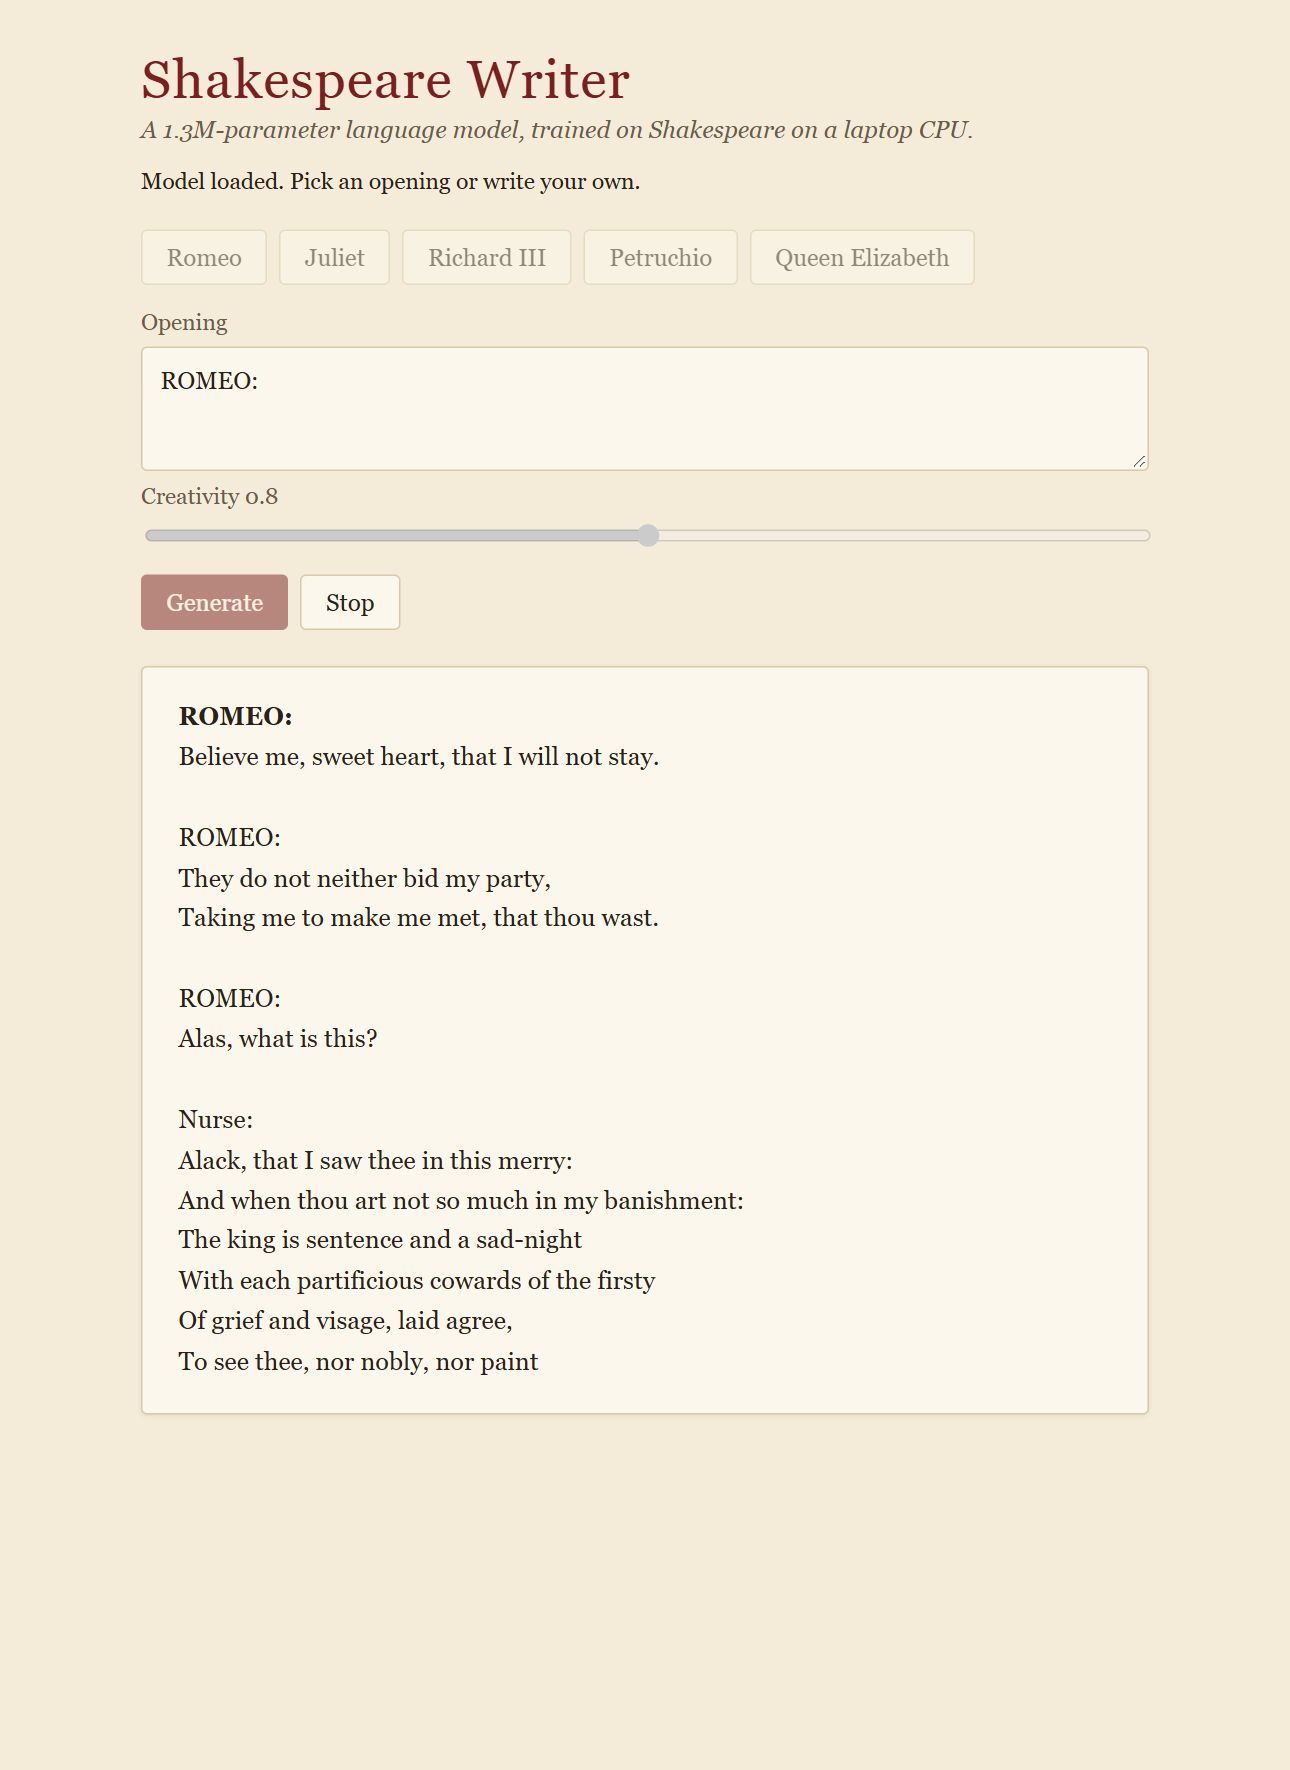
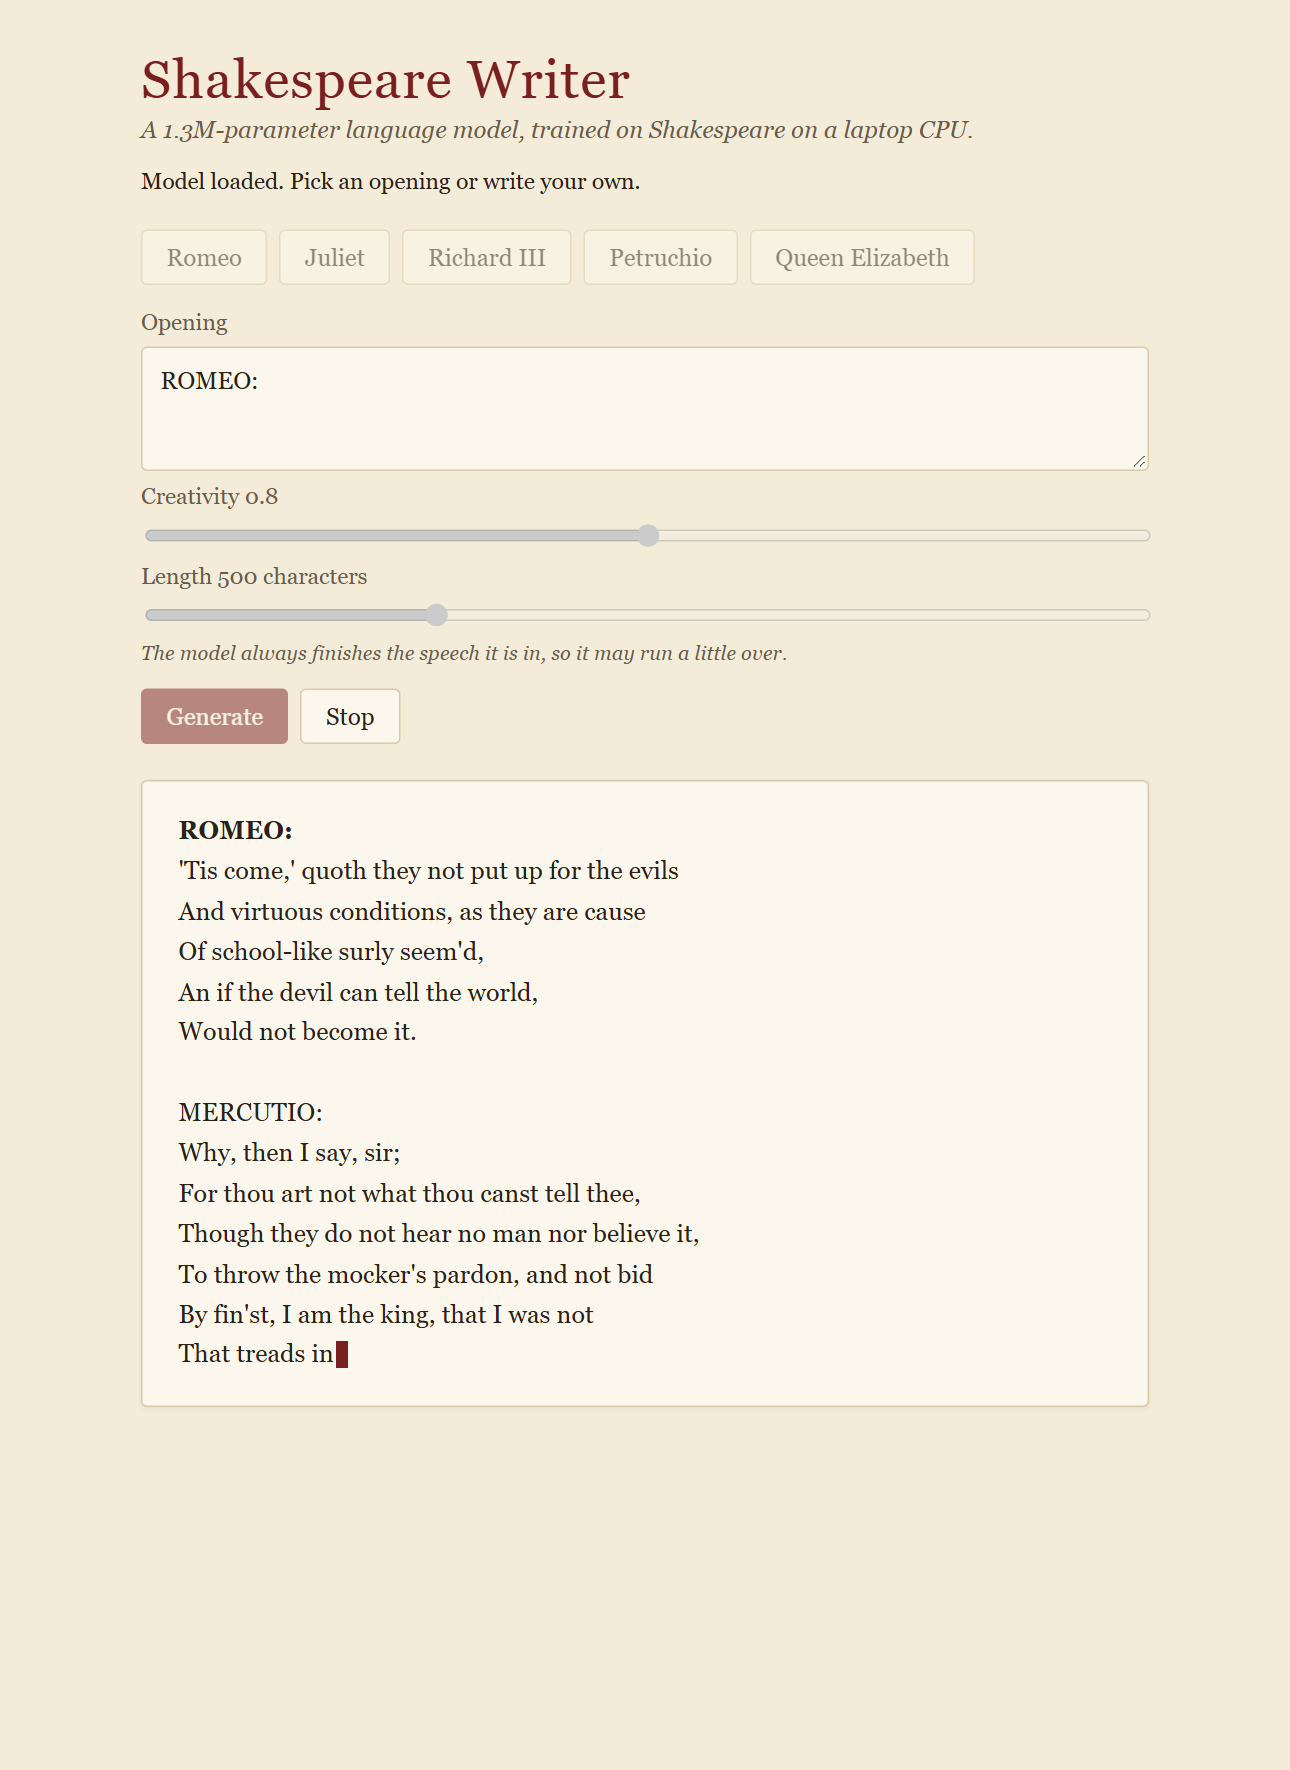
Add a Length slider beside Creativity
Sets how many characters to ask for, 100 to 1500 in steps of 100, with a hint that the model always finishes the speech it is in. The README screenshot is retaken to show it.

diff --git a/frontend/src/App.jsx b/frontend/src/App.jsx
@@ -17,6 +17,7 @@ export default function App() {
   const [modelStatus, setModelStatus] = useState('checking')
   const [prompt, setPrompt] = useState(PRESET_PROMPTS[0].text)
   const [temperature, setTemperature] = useState(0.8)
+  const [length, setLength] = useState(500)
   const [storyPrompt, setStoryPrompt] = useState('')
   const [storyText, setStoryText] = useState('')
   const [isWriting, setIsWriting] = useState(false)
@@ -39,7 +40,7 @@ export default function App() {
     setStoryText('')
     setError(null)
     setIsWriting(true)
-    sourceRef.current = streamText(prompt, temperature, {
+    sourceRef.current = streamText(prompt, temperature, length, {
       onText: (piece) => setStoryText((current) => current + piece),
       onDone: () => setIsWriting(false),
       onError: () => {
@@ -103,6 +104,23 @@ export default function App() {
           onChange={(event) => setTemperature(Number(event.target.value))}
           disabled={isWriting}
         />
+
+        <label htmlFor="length">
+          Length <output htmlFor="length">{length}</output> characters
+        </label>
+        <input
+          id="length"
+          type="range"
+          min="100"
+          max="1500"
+          step="100"
+          value={length}
+          onChange={(event) => setLength(Number(event.target.value))}
+          disabled={isWriting}
+        />
+        <p className="hint">
+          The model always finishes the speech it is in, so it may run a little over.
+        </p>
 
         <div className="actions">
           <button

diff --git a/frontend/src/App.test.jsx b/frontend/src/App.test.jsx
@@ -1,4 +1,4 @@
-import { act, render, screen } from '@testing-library/react'
+import { act, fireEvent, render, screen } from '@testing-library/react'
 import userEvent from '@testing-library/user-event'
 import { vi } from 'vitest'
 import App from './App'
@@ -47,6 +47,7 @@ test('streams text into the story as it arrives, then allows another', async () 
   await user.click(screen.getByRole('button', { name: 'Generate' }))
   const stream = latestStream()
   expect(stream.url).toContain('prompt=ROMEO%3A%0A')
+  expect(stream.url).toContain('length=500')
   expect(screen.getByRole('button', { name: 'Generate' })).toBeDisabled()
 
   sendText(stream, 'But')
@@ -58,6 +59,19 @@ test('streams text into the story as it arrives, then allows another', async () 
   act(() => stream.emit('done', '""'))
   expect(stream.closed).toBe(true)
   expect(screen.getByRole('button', { name: 'Generate' })).toBeEnabled()
+})
+
+test('the length slider sets how much the model is asked to write', async () => {
+  const user = userEvent.setup()
+  render(<App />)
+  const slider = screen.getByRole('slider', { name: /length/i })
+
+  // A range input has no typing interaction; change is what dragging fires.
+  fireEvent.change(slider, { target: { value: '1200' } })
+  await user.click(screen.getByRole('button', { name: 'Generate' }))
+
+  expect(screen.getByText('1200')).toBeInTheDocument()
+  expect(latestStream().url).toContain('length=1200')
 })
 
 test('Stop closes the stream and keeps what was written', async () => {

diff --git a/frontend/src/api.js b/frontend/src/api.js
@@ -38,6 +38,8 @@ export async function fetchHealth() {
  *
  * @param {string} prompt Text for the model to continue.
  * @param {number} temperature 0.1 to 1.5; higher is more inventive.
+ * @param {number} length 100 to 1500: at least this many characters. The
+ *   model then finishes the speech it is in, so the reply runs a little over.
  * @param {object} handlers
  * @param {(text: string) => void} handlers.onText Called with each new piece.
  * @param {() => void} handlers.onDone Called once the model has finished.
@@ -45,8 +47,12 @@ export async function fetchHealth() {
  *   or breaks. The browser does not say why, so neither can this.
  * @returns {EventSource} Close it to stop the model early.
  */
-export function streamText(prompt, temperature, { onText, onDone, onError }) {
-  const query = new URLSearchParams({ prompt, temperature: String(temperature) })
+export function streamText(prompt, temperature, length, { onText, onDone, onError }) {
+  const query = new URLSearchParams({
+    prompt,
+    temperature: String(temperature),
+    length: String(length),
+  })
   const source = new EventSource(`${BASE_URL}/generate?${query}`)
 
   // Each piece is JSON-encoded on the wire so newlines and leading spaces

diff --git a/frontend/src/index.css b/frontend/src/index.css
@@ -88,6 +88,13 @@ input[type='range'] {
   accent-color: var(--accent);
 }
 
+.hint {
+  margin: 0;
+  font-size: 0.85rem;
+  font-style: italic;
+  color: var(--ink-faded);
+}
+
 .actions {
   display: flex;
   gap: 0.5rem;
